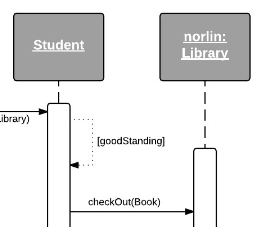
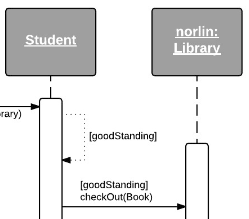
Fill slide4

diff --git a/uml/slide4.md b/uml/slide4.md
@@ -2,6 +2,15 @@
 
 ####What is a Sequence Diagram?
 
+A sequence diagram models the exchange of messages between actors, classes, and objects.
+Messages are how objects communicate with each other in objected-oriented programming.
+Messages allow one object to access the attributes and operations of another object.
+This message exchange makes sequence diagrams dynamic like an activity diagram. But it is a lower-level than activity
+diagrams. Sequence diagrams are at a low-level like class diagrams in that they both
+specify classes and objects.
+
+####Learning by Example
+
 ```
 class Student {
    boolean goodStanding;
@@ -32,8 +41,32 @@ class Book {
 
 ![Sequence](https://github.com/trekbaum/present/blob/master/uml/resourses/sequence.jpeg "Sequence Diagram")
 
+Sequence diagrams are read from the top down. Interactions that are lower on the
+diagram happen after those interactions that are at the top. 
+Notice the things at the top of the diagram.
+The stick figure represents an actor on the system. The boxes represents classes.
+These can take the form class or object: class depending on if we want to specify
+the object or just the general class. The dotted line is a lane for that class.
+The rectangle surronding the dotted line is the life line of the class. The activity
+of the class begins and ends with the life line. We begin this example by the 
+actor sending a message to the student class to tell it that the actor wants a
+book from a library.
+
 ![Fig8](https://github.com/trekbaum/present/blob/master/uml/resourses/fig8.png "Actor, Class, & Object")
+
+Next in the example, the student class sends a message to itself (this.goodStanding).
+If this message is true, the student class then sends a message to the norlin object
+to access its checkout(Book) method.
 
 ![Fig9](https://github.com/trekbaum/present/blob/master/uml/resourses/fig9.png "Messages")
 
+Once the norlin object receives the checkout message, norlin then sends a message
+to check if that particular book object is available. In this case, the object is
+the dracula book. Dracula then sends a message back to norlin about dracula's 
+availablity. If norlin receives a message that dracula is available, norlin then
+will send a message back to set dracula's available attribute to false.
+
 ![Fig10](https://github.com/trekbaum/present/blob/master/uml/resourses/fig10.png "Conditional")
+
+Finally, let's put all we've learn together to see how diagrams can describe
+[design patterns.](https://github.com/trekbaum/present/blob/master/uml/slide5.md)
